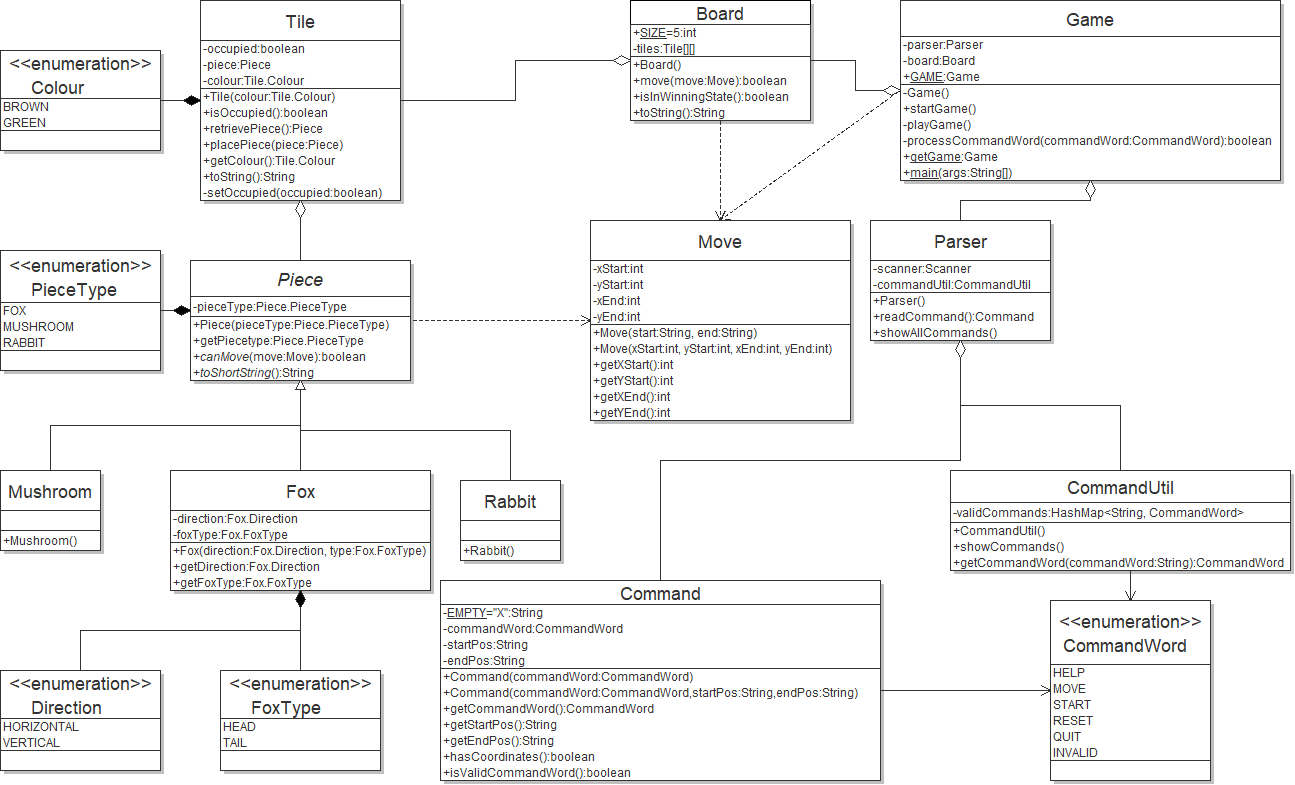
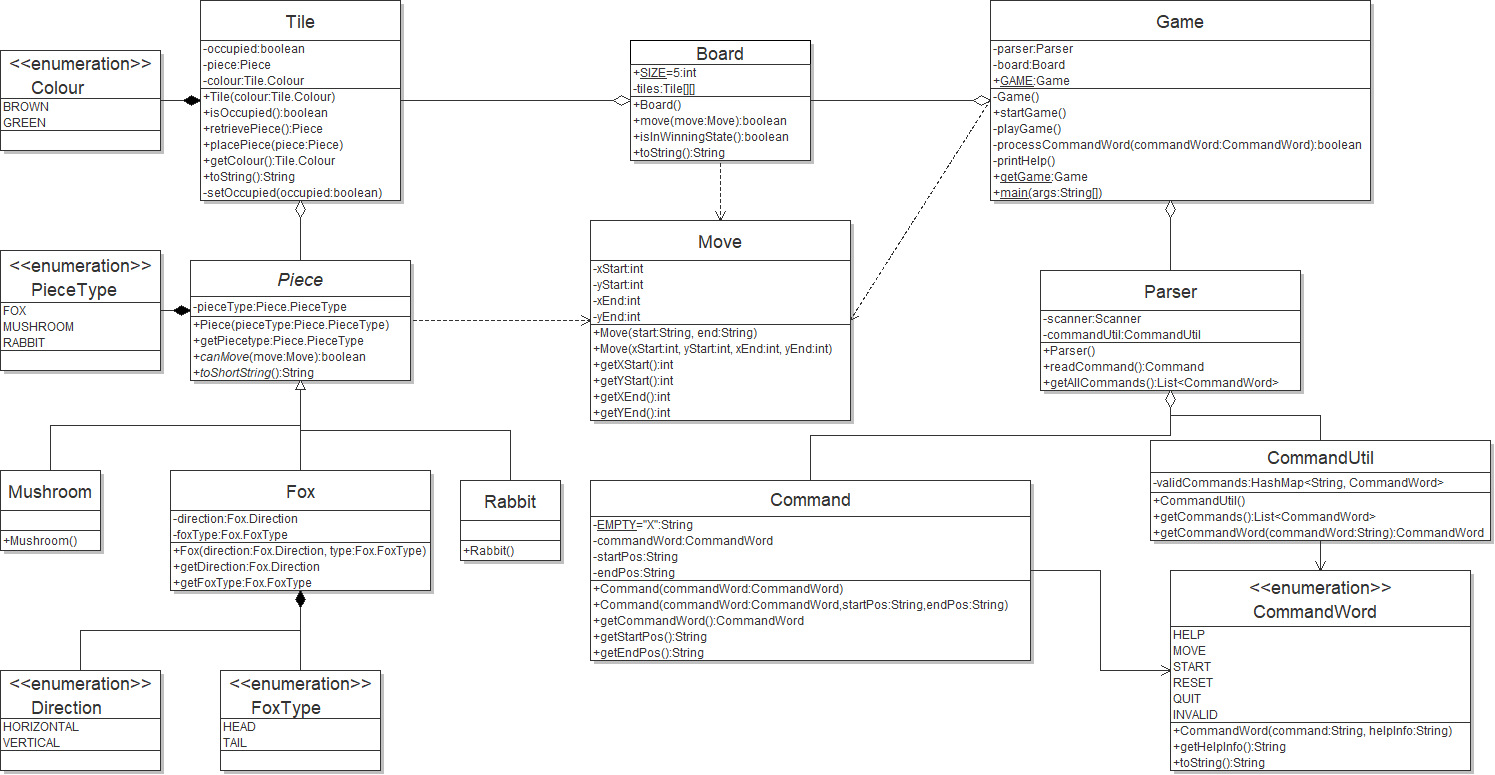
Refactor CommandWord enum + update UML

diff --git a/src/main/java/model/CommandWord.java b/src/main/java/model/CommandWord.java
@@ -2,7 +2,8 @@ package model;
 
 /**
  * The CommandWord enumeration is used to store all of the defined commands for
- * the Game. It also stores their corresponding String representation.
+ * the Game. It also stores their corresponding String representation, along with
+ * information about their use in Game.
  * 
  * Of note, all String representations are strictly lowercase.
  * 
@@ -10,18 +11,45 @@ package model;
  * @version 1.0
  */
 public enum CommandWord {
-	HELP("help"), MOVE("move"), RESET("reset"), START("start"), QUIT("quit"), INVALID("invalid");
+	HELP("help", "  help: Displays this menu."), 
+	MOVE("move", "  move x1y1 x2y2: Moves a piece from x1y1 to x2y2, if the move is valid.\n\n"
+			   + "                  Rabbits (Denoted by \"RB\") can move by jumping over\n"
+			   + "                  occupied tiles. Rabbits can only move in a straight line.\n\n"
+			   + "                  Foxes (Denoted by \"FH\" and \"FT\") can move by sliding\n"
+			   + "                  to the left and right if they are horizontal, or up and\n"
+			   + "                  down if they are vertical. They cannot slide through or\n"
+			   + "                  past occupied tiles. They can be jumped over by rabbits.\n\n"
+			   + "                  Mushrooms (Denoted by \"MU\") cannot move. However, they\n"
+			   + "                  can be jumped over by rabbits.\n\n"
+			   + "                  An example move: \"move 12 14\", which moves a piece from\n"
+			   + "                  column 1 row 2, to column 1 row 4, if the move is valid."),
+	RESET("reset", "  reset: Resets the game. Can only be used after the game has started."), 
+	START("start", "  start: Starts the game. Can only be used before the game has started."),
+	QUIT("quit", "  quit: Quits the game."), 
+	INVALID("invalid", "invalid");
 
 	// Instance variable declaration.
-	private String command; // The string representation of the CommandWord.
+	private String command;  // The string representation of the CommandWord.
+	private String helpInfo; // The string representation of what this CommandWord does in Game.
 
 	/**
-	 * Construct the passed command String.
+	 * Construct the CommandWord based on the passed Strings.
 	 * 
-	 * @param command The command as a String.
+	 * @param command The CommandWord as a String.
+	 * @param helpInfo The help information for a CommandWord, as a String.
 	 */
-	CommandWord(String command) {
+	CommandWord(String command, String helpInfo) {
 		this.command = command;
+		this.helpInfo = helpInfo;
+	}
+	
+	/**
+	 * Return the helpful information about how to use the CommandWord.
+	 * 
+	 * @return The String representation of the help information for the CommandWord.
+	 */
+	public String getHelpInfo() {
+		return helpInfo;
 	}
 
 	@Override

diff --git a/src/main/java/model/Parser.java b/src/main/java/model/Parser.java
@@ -5,7 +5,6 @@ package model;
 
 import java.util.Scanner;
 import java.util.List;
-import java.util.ArrayList;
 
 /**
  * The Parser class is responsible for parsing user input. This input is used to
@@ -58,38 +57,10 @@ public class Parser {
 	 * This method is used to return to Game class all available commands with
 	 * information on what each command does and how to use it.
 	 * 
-	 * @return commandListWithInfo - a list of all the valid commands for the game.
-	 *         This list includes the valid commands: help, move, reset, start, and
-	 *         quit.
+	 * @return A list of all the valid commands for the game.
+	 *         This list includes the valid commands: help, move, reset, start, and quit.
 	 */
-	public List<String> getAllCommands() {
-		List<CommandWord> commandList = commandUtil.getCommands();
-		List<String> commandListWithInfo = new ArrayList<>();
-		for (CommandWord curr : commandList) {
-			if (curr.equals(CommandWord.HELP)) {
-				commandListWithInfo.add("  help: Displays this menu.");
-			} else if (curr.equals(CommandWord.START)) {
-				commandListWithInfo.add("  start: Starts the game. Can only be used before the game has started.");
-			} else if (curr.equals(CommandWord.MOVE)) {
-				StringBuilder temp = new StringBuilder();
-				temp.append("  move x1y1 x2y2: Moves a piece from x1y1 to x2y2, if the move is valid.\n\n");
-				temp.append("                  Rabbits (Denoted by \"RB\") can move by jumping over\n");
-				temp.append("                  occupied tiles. Rabbits can only move in a straight line.\n\n");
-				temp.append("                  Foxes (Denoted by \"FH\" and \"FT\") can move by sliding\n");
-				temp.append("                  to the left and right if they are horizontal, or up and\n");
-				temp.append("                  down if they are vertical. They cannot slide through or\n");
-				temp.append("                  past occupied tiles. They can be jumped over by rabbits.\n\n");
-				temp.append("                  Mushrooms (Denoted by \"MU\") cannot move. However, they\n");
-				temp.append("                  can be jumped over by rabbits.\n\n");
-				temp.append("                  An example move: \"move 12 14\", which moves a piece from\n");
-				temp.append("                  column 1 row 2, to column 1 row 4, if the move is valid.");
-				commandListWithInfo.add(temp.toString());
-			} else if (curr.equals(CommandWord.RESET)) {
-				commandListWithInfo.add("  reset: Resets the game. Can only be used after the game has started.");
-			} else if (curr.equals(CommandWord.QUIT)) {
-				commandListWithInfo.add("  quit: Quits the game.");
-			}
-		}
-		return commandListWithInfo;
+	public List<CommandWord> getAllCommands() {
+		return commandUtil.getCommands();
 	}
 }

diff --git a/src/main/java/model/Game.java b/src/main/java/model/Game.java
@@ -98,12 +98,15 @@ public class Game {
 		return false;
 	}
 
+	/**
+	 * Prints the help menu for the Game.
+	 */
 	private void printHelp() {
 		System.out.println("Help menu:");
 		System.out.println();
-		List<String> commandsWithInfo = parser.getAllCommands();
-		for (String curr : commandsWithInfo) {
-			System.out.println(curr + "\n");
+		List<CommandWord> commandsWithInfo = parser.getAllCommands();
+		for (CommandWord curr : commandsWithInfo) {
+			System.out.println(curr.getHelpInfo() + "\n");
 		}
 	}
 

diff --git a/src/main/java/model/CommandUtil.java b/src/main/java/model/CommandUtil.java
@@ -28,7 +28,7 @@ public class CommandUtil {
 	}
 
 	/**
-	 * Return a String of all valid commands separated by a whitespace.
+	 * Return a List of all valid commands.
 	 */
 	public List<CommandWord> getCommands() {
 		List<CommandWord> commandList = new ArrayList<>();
